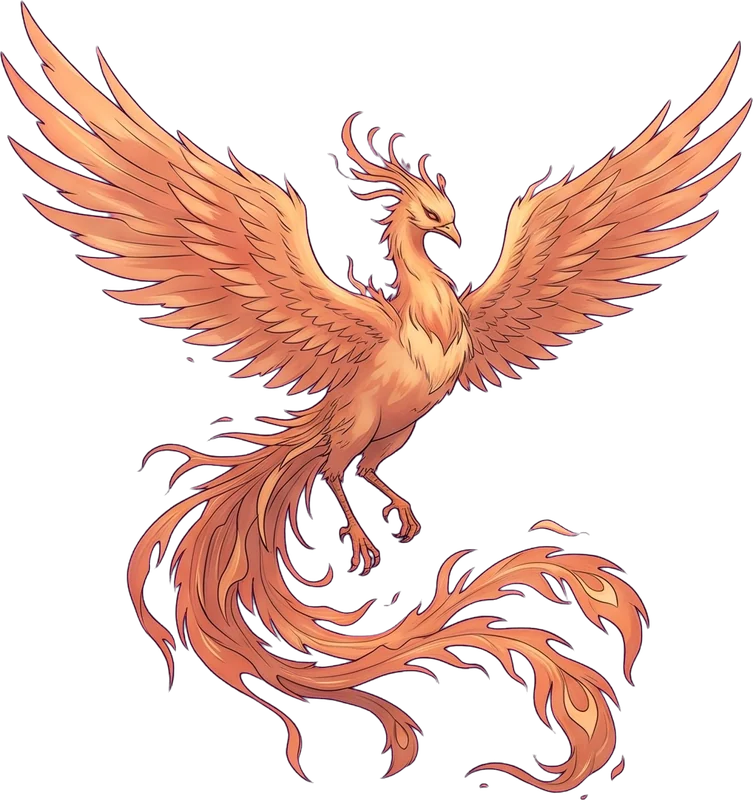
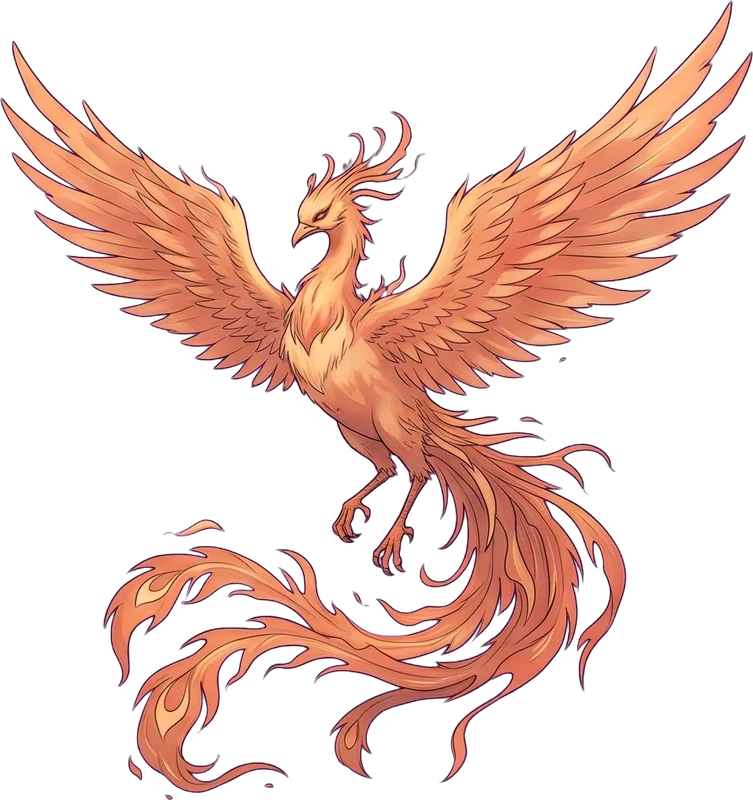
最終版136:敵人一律面向左
Claude-Session: https://claude.ai/code/session_01XFjgiRTG3Jf3mQnuemi4tn

diff --git a/src/js/02_main/026_v7_6_地圖_戰鬥背景_角色_妖魔_神通改用生成圖.js b/src/js/02_main/026_v7_6_地圖_戰鬥背景_角色_妖魔_神通改用生成圖.js
@@ -32,7 +32,7 @@
     const p = stageEl('bs-p'), svg = p && p.querySelector('svg');
     if (svg) svg.outerHTML = `<img id="bs-ps" class="bs-ps" src="${G.S0}" alt="" draggable="false">`;
     const mk = monKey(B.monster), me = s.querySelector('.bs-memo');
-    if (me && mk) me.innerHTML = `<img class="bs-mi ${mk[0].toLowerCase()}${['K1', 'K7', 'M06', 'M07', 'M08', 'M10', 'W5', 'W8'].includes(mk) ? ' fl87' : ''}" src="${G[mk]}" alt="" draggable="false">`;
+    if (me && mk) me.innerHTML = `<img class="bs-mi ${mk[0].toLowerCase()}${['M06', 'M07', 'M10'].includes(mk) ? ' fl87' : ''}" src="${G[mk]}" alt="" draggable="false">`;
   };
   const pose = (n, ms) => { const im = stageEl('bs-ps'); if (!im) return; im.src = G[n]; clearTimeout(pose.t); pose.t = setTimeout(() => { const i2 = stageEl('bs-ps'); if (i2) i2.src = G.S0; }, ms / (state.battleSpeed || 1) + 60); };
   XT.fxAct76 = _pa => function (sk) { _pa.apply(this, arguments); if (!stageOn()) return; if (!sk || ['atk', 'burn', 'stun', 'drain'].includes(sk.type)) pose('S1', 560); };

diff --git a/tools/patches/p58_face_left.py b/tools/patches/p58_face_left.py
@@ -1,0 +1,12 @@
+#!/usr/bin/env python3
+"""最終版136:敵人一律面向左。
+- 圖檔左右翻轉:A45/yx3(守山長老・第 4 區)、GEN3/W1(九尾天狐)、GEN3/W8(滅世火鳳)(此腳本只改程式,圖已另外翻好)
+- 一般戰鬥的翻轉清單拿掉 K1、K7、W5、W8、M08:v125b 換成面向左的新圖後,這幾張再翻就變成面向右"""
+import os
+R = os.path.join(os.path.dirname(os.path.abspath(__file__)), '..', '..')
+p = os.path.join(R, 'src/js/02_main/026_v7_6_地圖_戰鬥背景_角色_妖魔_神通改用生成圖.js')
+s = open(p, encoding='utf-8', newline='').read()
+old = "['K1', 'K7', 'M06', 'M07', 'M08', 'M10', 'W5', 'W8'].includes(mk)"
+assert s.count(old) == 1
+open(p, 'w', encoding='utf-8', newline='').write(s.replace(old, "['M06', 'M07', 'M10'].includes(mk)"))
+print('p58 ok')

diff --git a/HANDOFF.md b/HANDOFF.md
@@ -1,4 +1,4 @@
-# 《一念飛仙》交接說明（最終版135）
+# 《一念飛仙》交接說明（最終版136）
 
 ## 新對話第一步
 1. 把 GitHub 倉庫 `mashin-84/Cultivation` 加進對話（要推送權限）。
